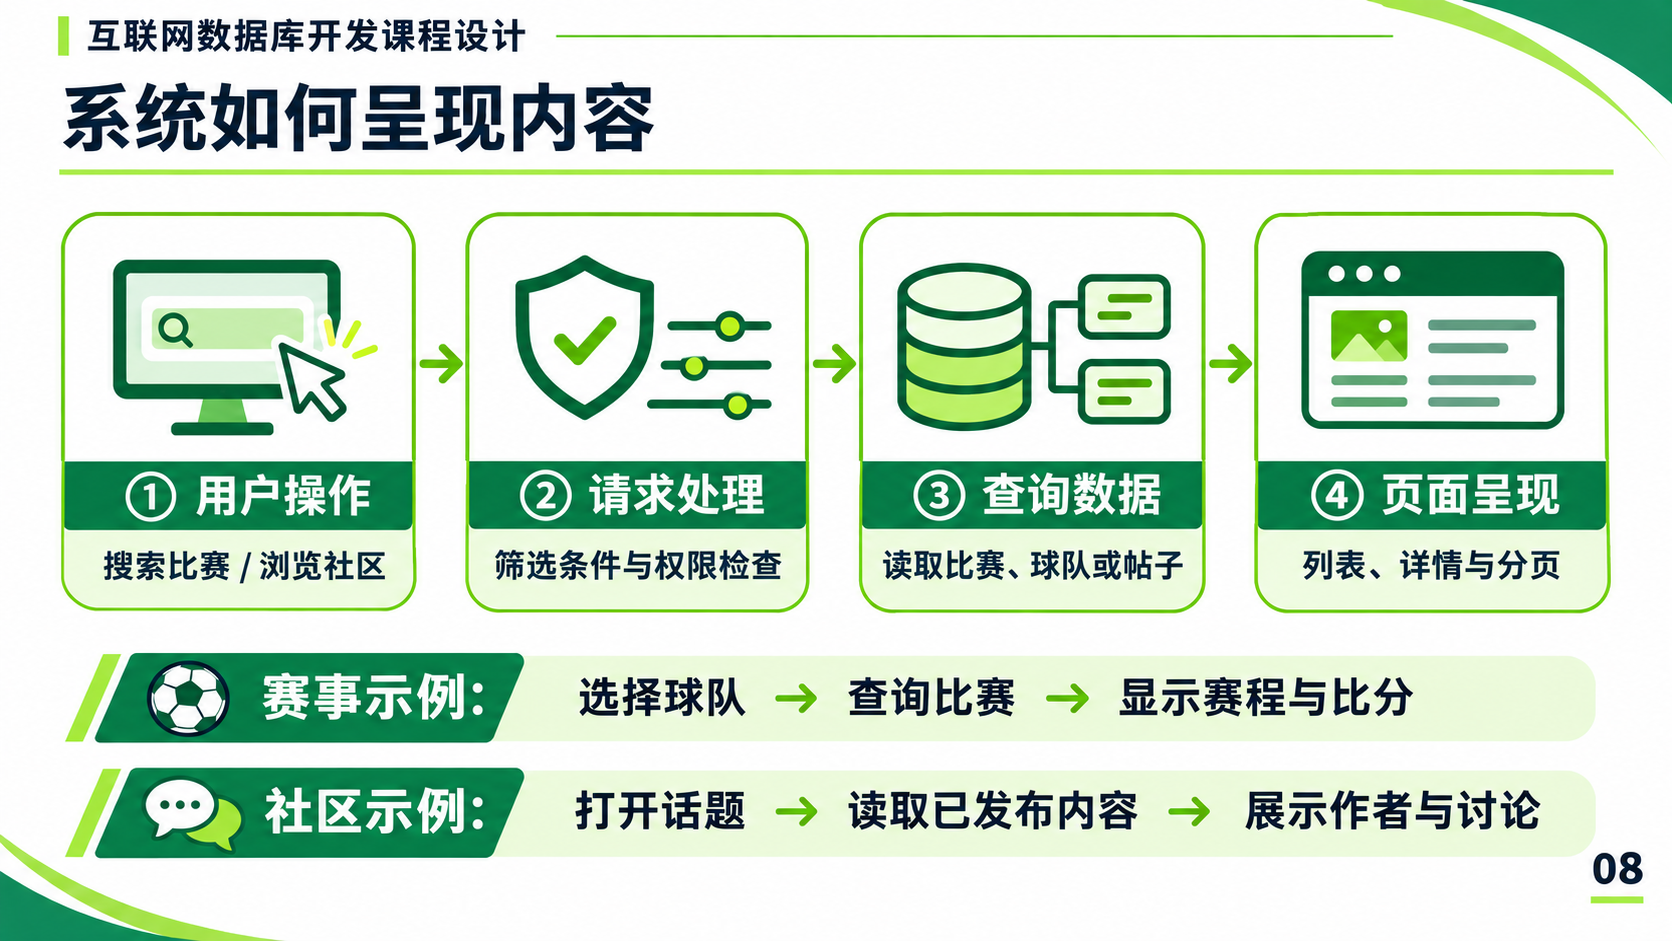
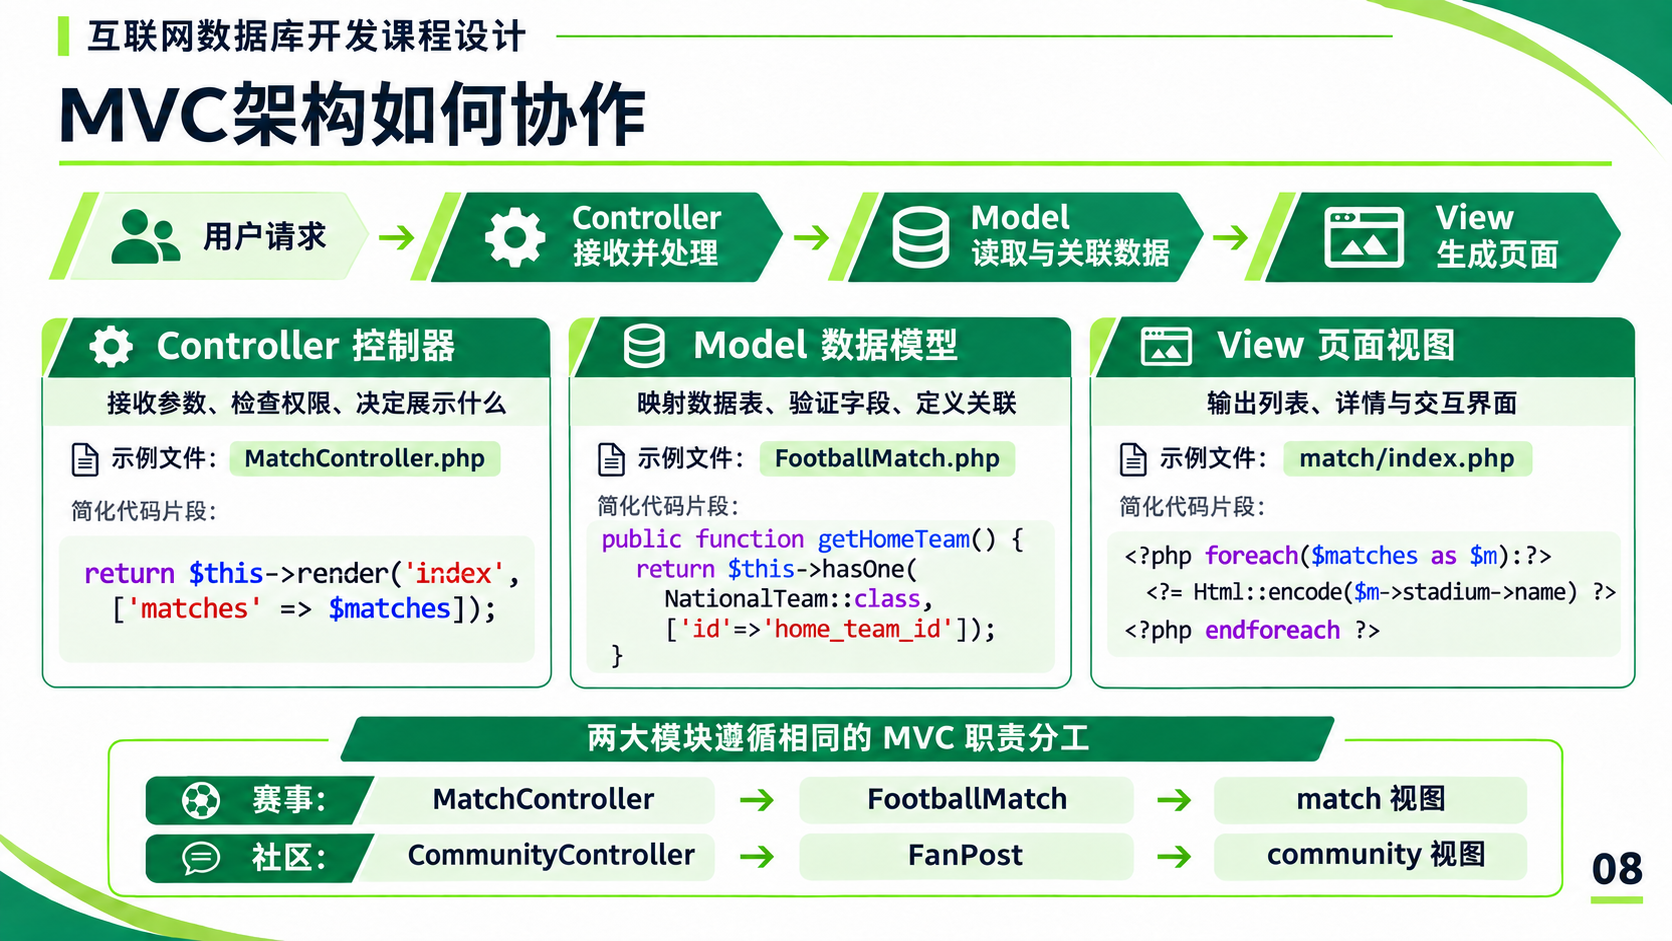
修正MVC架构页并保留代码示例

diff --git a/figures/40_system_content_flow_slide_prompt.md b/figures/40_system_content_flow_slide_prompt.md
@@ -1,10 +1,15 @@
-# 系统内容呈现页生图记录
+# MVC 架构协作页生图记录
 
 - 输出：`40_system_content_flow_slide.png`
-- 来源：用户提供的第 08 页“ MVC与主要代码 ”截图。
+- 来源：用户提供的第 08 页“MVC与主要代码”截图。
 - 工具：内置 ImageGen 图片编辑；未生成 PPTX。
-- 调整：标题改为“系统如何呈现内容”；将代码、Gii 表格替换为“用户操作 → 请求处理 → 查询数据 → 页面呈现”四步流程，并用赛事、社区示例解释页面处理过程。
+- 调整：标题为“MVC架构如何协作”；上方呈现用户请求经过 Controller、Model、View 的运行顺序，中间按三层解释职责并保留代码节选，底部对齐赛事与社区模块的文件映射。
+- 代码依据：`app/frontend/controllers/MatchController.php`、`app/common/models/FootballMatch.php`、`app/frontend/views/match/index.php`。代码块经节选和排版简化，不代表完整可复制的方法。
 - 尺寸：1672 × 941 像素。
-- 提示词：
+- 主要生图提示词：
 
-> Redesign this exact 16:9 Chinese university project presentation slide into a MUCH CLEARER visual explanation for a non-programmer audience. Preserve the existing white background, upper-right and lower-left emerald/lime corner ribbons, the top-left small course header EXACTLY '互联网数据库开发课程设计' with green short vertical bar and thin green top rule, navy and emerald/lime palette, and page number 08. Replace the current large title 'MVC与主要代码' with the concise dark navy Chinese title '系统如何呈现内容'. Remove ALL source code panels, PHP snippets, English class names, old MVC arrows, Gii table and dense technical text. Create a clean four-step horizontal visual process occupying the center, with FOUR large matching simple vector-like icons and readable Chinese labels, connected by clear arrows: ① 用户操作 (magnifying glass or cursor icon; small line '搜索比赛 / 浏览社区') → ② 请求处理 (shield + sliders icon; small line '筛选条件与权限检查') → ③ 查询数据 (database + linked records icon; small line '读取比赛、球队或帖子') → ④ 页面呈现 (browser window icon; small line '列表、详情与分页'). Beneath that, add only TWO horizontal example strips, with distinctive football and chat icons and short large readable Chinese text: '赛事示例：选择球队 → 查询比赛 → 显示赛程与比分' and '社区示例：打开话题 → 读取已发布内容 → 展示作者与讨论'. Overall content should communicate the end-to-end request flow and the two project modules at a glance. Use ample whitespace, large bold readable Simplified Chinese typography, limited words, clear hierarchy, balanced alignment, green line/icons, no tiny text, no code. All labels must be spelled correctly, especially the top header and main title. Do not add any other text or unsupported statistics.
+> Redesign the supplied Chinese 16:9 project slide. IMPORTANT: The subject is the MVC SOFTWARE ARCHITECTURE ITSELF, NOT a match-query tutorial. Keep the original sophisticated emerald/lime and dark navy palette, white canvas, curved green upper-right and lower-left ribbons, top-left small course header EXACTLY '互联网数据库开发课程设计', and page number 08. Replace the original vague title 'MVC与主要代码' with 'MVC架构如何协作'. Make a single coherent architecture story that integrates concept, real code excerpts, and the project's two concrete modules. Layout: immediately under the title, a concise large flow with visual icons and arrows: '用户请求 → Controller 接收并处理 → Model 读取与关联数据 → View 生成页面'. Below it, THREE balanced vertical cards, visually tied to the flow, with clearly legible Chinese function labels and SHORT syntax-highlighted PHP code snippets. Card 1: heading 'Controller 控制器'; plain explanation '接收参数、检查权限、决定展示什么'; actual example filename 'MatchController.php'; code `return $this->render('index', ['matches' => $matches]);` labeled as a simplified excerpt. Card 2: heading 'Model 数据模型'; plain explanation '映射数据表、验证字段、定义关联'; actual file 'FootballMatch.php'; code `public function getHomeTeam() {` / `  return $this->hasOne(NationalTeam::class, ['id'=>'home_team_id']);` / `}`. Card 3: heading 'View 页面视图'; plain explanation '输出列表、详情与交互界面'; actual file 'match/index.php'; code `<?php foreach($matches as $m):?>` / `  <?= Html::encode($m->stadium->name) ?>` / `<?php endforeach ?>`. Across the bottom place ONE compact mapping band with two clearly labeled parallel examples showing that the modules share the same MVC responsibilities. The slide must feel like a professional technical course presentation: a clean integrated diagram, explanatory prose, authentic code, no unrelated statistics, no Gii claim, no tiny table, no walls of code.
+
+- 局部修订提示词：
+
+> Keep the slide visually identical except the bottom module mapping band. Its columns follow the same left-to-right runtime order as the cards above: Controller → Model → View. Heading: '两大模块遵循相同的 MVC 职责分工'. Row 1: '赛事：MatchController → FootballMatch → match 视图'. Row 2: '社区：CommunityController → FanPost → community 视图'.

diff --git a/data/team/README.md b/data/team/README.md
@@ -11,4 +11,4 @@
 
 复用的空白演示背景保存在 `figures/39_blank_slide_background.png`：仅保留左上角课程标题及绿色边角装饰，页面内容与页码已清除；生图处理记录见同名 `_prompt.md` 文件。
 
-系统内容呈现页的生图版本保存在 `figures/40_system_content_flow_slide.png`：用用户操作、请求处理、查询数据、页面呈现四步和赛事、社区实例替代原来的代码截图；生图处理记录见同名 `_prompt.md` 文件。
+MVC 架构协作页的生图版本保存在 `figures/40_system_content_flow_slide.png`：以同一幅图串联运行流程、三层职责、真实代码节选及赛事和社区的文件映射；生图处理记录见同名 `_prompt.md` 文件。
